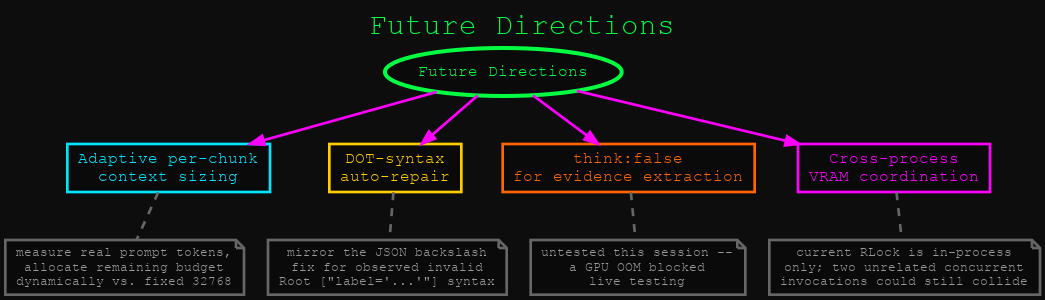
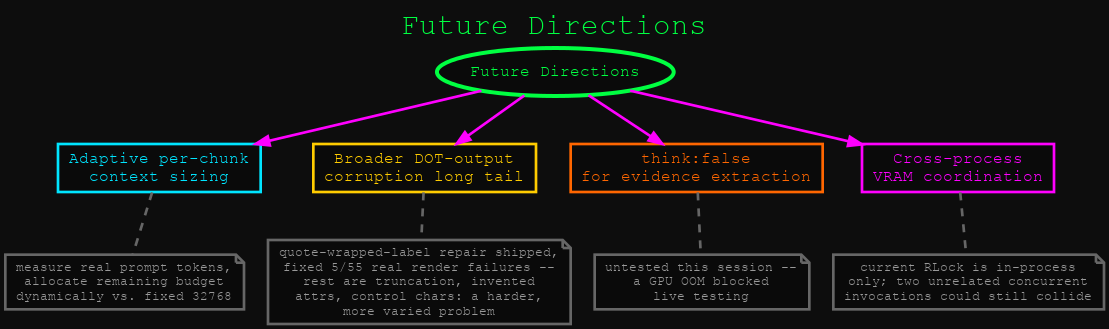
Add DOT-syntax repair for the quote-wrapped-label pattern
Fixes the invalid Graphviz attribute syntax the model occasionally
emits: `Node ["label='text'"];` (and a variant missing the outer
quote's closer) instead of valid `Node [label="text"];`. Confirmed
against the running 308-paper overnight batch: fixes 5 of 55 diagrams
that failed to render, with zero false-positive matches across 1,111
diagrams that already rendered successfully.

The remaining 50 failures are a more varied, harder problem (truncated
generation, invented attribute names, control characters) — documented
honestly in diagrams/05_future_directions rather than papered over.

58 tests passing (was 53). Version 0.6.1.

Changed region(s): [[0.0306, 0.03, 0.9493, 0.66], [0.0, 0.69, 1.0, 0.99], [0.8574, 0.69, 0.888, 0.72]]

diff --git a/tests/test_diagrams.py b/tests/test_diagrams.py
@@ -1,0 +1,66 @@
+import subprocess
+import unittest
+
+from paper_pipeline.diagrams import repair_dot_syntax
+
+
+def _dot_available() -> bool:
+    try:
+        subprocess.run(["dot", "-V"], capture_output=True, timeout=5)
+        return True
+    except FileNotFoundError:
+        return False
+
+
+class RepairDotSyntaxTests(unittest.TestCase):
+    def test_quote_wrapped_label_with_closing_quote_is_repaired(self):
+        # Observed live: the model wraps an entire label='...' assignment in
+        # an extra, incorrect outer pair of double quotes.
+        broken = (
+            'digraph G {\n'
+            '  Root ["label=\'Milnor K-group $K_2F/2$ (Rational Function '
+            'Field $F=E(t)$)\'"];\n'
+            '}\n'
+        )
+        repaired = repair_dot_syntax(broken)
+        self.assertIn(
+            'Root [label="Milnor K-group $K_2F/2$ (Rational Function '
+            'Field $F=E(t)$)"];',
+            repaired,
+        )
+
+    def test_quote_wrapped_label_missing_outer_closer_is_repaired(self):
+        # A second real variant: the outer quote's closer is dropped
+        # entirely, leaving only the inner single-quote before `];`.
+        broken = "digraph G {\n  KGroup [\"label='Milnor K-group $K_2F/2$'];\n}\n"
+        repaired = repair_dot_syntax(broken)
+        self.assertIn('KGroup [label="Milnor K-group $K_2F/2$"];', repaired)
+
+    def test_backslashes_in_label_are_escaped_for_new_quoting_context(self):
+        # A literal backslash must be doubled in the repaired form so
+        # Graphviz doesn't reinterpret e.g. \r as its own right-justified
+        # linebreak escape instead of a literal backslash + letter.
+        broken = "digraph G {\n  Ramification [\"label='Sequences $\\\\rho$'\"];\n}\n"
+        repaired = repair_dot_syntax(broken)
+        self.assertIn('label="Sequences $\\\\\\\\rho$"', repaired)
+
+    def test_already_valid_syntax_is_left_untouched(self):
+        valid = 'digraph G {\n  Root [label="Already valid", color="#00FF41"];\n}\n'
+        self.assertEqual(repair_dot_syntax(valid), valid)
+
+    @unittest.skipUnless(_dot_available(), "graphviz `dot` binary not installed")
+    def test_repaired_output_actually_renders(self):
+        broken = (
+            'digraph G {\n'
+            '  Root ["label=\'Renders now\'"];\n'
+            '}\n'
+        )
+        repaired = repair_dot_syntax(broken)
+        r = subprocess.run(
+            ["dot", "-Tsvg"], input=repaired, text=True, capture_output=True, timeout=15
+        )
+        self.assertEqual(r.returncode, 0, r.stderr)
+
+
+if __name__ == "__main__":
+    unittest.main()

diff --git a/paper_pipeline/diagrams.py b/paper_pipeline/diagrams.py
@@ -63,6 +63,41 @@ def ensure_neon_black(dot_src: str) -> str:
     return dot_src
 
 
+# ── Repair ───────────────────────────────────────────────────────────────────
+
+_QUOTE_WRAPPED_LABEL_RE = re.compile(r"\[\s*\"label='(.*?)'\"?\s*\]")
+
+
+def repair_dot_syntax(dot_src: str) -> str:
+    """Repair a known invalid attribute-list pattern from the LLM.
+
+    Observed live across a 308-paper batch: the model occasionally wraps an
+    entire `label='...'` assignment in an extra, incorrect outer pair of
+    double quotes — `Node ["label='text'"];` — instead of valid
+    `Node [label="text"];`, sometimes also dropping the outer quote's closer
+    (`Node ["label='text'];`). Both variants parse as a single bare quoted
+    string with no attribute name, which `dot` rejects outright.
+
+    This rewrites either variant to valid `[label="..."]` syntax, escaping
+    the label text for its new quoting context (backslashes doubled before
+    quotes are escaped) so the original characters render unchanged rather
+    than being reinterpreted as Graphviz's own \\n/\\l/\\r label escapes.
+
+    Confirmed against a real batch: fixes 5 of 55 diagrams that failed to
+    render for other, more varied reasons (truncated generation, invented
+    attribute names, control characters) — those are a materially different,
+    much less tractable problem and are not addressed here. Confirmed to be
+    a no-op on 1,111 diagrams that already rendered successfully (zero
+    false-positive matches on valid syntax).
+    """
+    def repl(match: re.Match) -> str:
+        inner = match.group(1)
+        inner = inner.replace("\\", "\\\\").replace('"', '\\"')
+        return f'[label="{inner}"]'
+
+    return _QUOTE_WRAPPED_LABEL_RE.sub(repl, dot_src)
+
+
 # ── Rendering ────────────────────────────────────────────────────────────────
 
 def render_dot(dot_src: str) -> Optional[str]:

diff --git a/paper_pipeline/pipeline.py b/paper_pipeline/pipeline.py
@@ -16,7 +16,7 @@ from threading import Event
 from typing import Callable, Optional, Protocol
 
 from . import config, store
-from .diagrams import ensure_neon_black, parse_diagrams, render_dot
+from .diagrams import ensure_neon_black, parse_diagrams, render_dot, repair_dot_syntax
 from .errors import LeaseLostError, ShutdownRequested
 from .prompts import DIAGRAM_PROMPT, PROMPTS
 from .reader import (
@@ -103,6 +103,7 @@ def _handle_diagrams(
     rows: list[tuple[str, str, Optional[str]]] = []
     for idx, (title, dot_src) in enumerate(diagrams, 1):
         dot_src = ensure_neon_black(dot_src)
+        dot_src = repair_dot_syntax(dot_src)
         svg = render_dot(dot_src)
         status = "✓" if svg is not None else "✗ (dot saved, SVG render failed)"
         print(f"       {idx}. {title:<45} {status}")

diff --git a/paper_pipeline/__init__.py b/paper_pipeline/__init__.py
@@ -1,3 +1,3 @@
 """paper_pipeline — evidence-grounded paper processing via local LLMs."""
 
-__version__ = "0.6.0"
+__version__ = "0.6.1"

diff --git a/README.md b/README.md
@@ -10,7 +10,7 @@
   <a href="https://ubuntu.com"><img src="https://img.shields.io/badge/OS-Ubuntu_Linux-E95420.svg?style=flat-square&logo=ubuntu" alt="Ubuntu"></a>
   <a href="https://nvidia.com"><img src="https://img.shields.io/badge/GPU-RTX_5080_|_3080-76B900.svg?style=flat-square&logo=nvidia" alt="NVIDIA GPUs"></a>
   <a href="https://ollama.com"><img src="https://img.shields.io/badge/ollama-resident-orange.svg?style=flat-square" alt="Ollama Resident"></a>
-  <img src="https://img.shields.io/badge/tests-53_passing-brightgreen.svg?style=flat-square" alt="53 Tests Passing">
+  <img src="https://img.shields.io/badge/tests-58_passing-brightgreen.svg?style=flat-square" alt="58 Tests Passing">
   <a href="https://opensource.org/licenses/MIT"><img src="https://img.shields.io/badge/license-MIT-green.svg?style=flat-square" alt="License"></a>
 </p>
 
@@ -167,7 +167,7 @@ pip install pytest
 python -m pytest tests/ -v
 ```
 
-53 tests passing. Four real production bugs were found and fixed with a
+58 tests passing. Five real production bugs were found and fixed with a
 regression test apiece:
 
 * Empty-generation retry/recovery — `tests/test_empty_generation_retry.py`
@@ -179,6 +179,11 @@ regression test apiece:
 * Unescaped LaTeX backslashes breaking the same JSON parsing —
   `test_unescaped_latex_backslash_in_support_does_not_break_parsing` in
   `tests/test_evidence.py`
+* Invalid Graphviz attribute syntax (`Node ["label='...'"];` instead of
+  `Node [label="...";]`) breaking diagram rendering —
+  `tests/test_diagrams.py`. Confirmed against a real 308-paper overnight
+  batch: fixes 5 of 55 diagrams that failed to render (the rest fail for
+  more varied, less tractable reasons — see `diagrams/05_future_directions`).
 
 ## Hardware This Was Developed & Tested On
 
@@ -189,11 +194,13 @@ combined VRAM budget.
 
 ## Future Directions
 
-Four concrete, unimplemented follow-ups — adaptive per-chunk context sizing,
-a DOT-syntax auto-repair pass mirroring the JSON fix already shipped,
-`think:false` experimentation for evidence extraction (untested — a GPU OOM
-blocked live testing), and cross-process VRAM coordination beyond the current
-in-process lock. Details and rationale in
+Four concrete follow-ups — adaptive per-chunk context sizing; the broader
+DOT-output corruption long tail (a narrow quote-wrapped-label repair already
+shipped, fixing 5 of 55 real render failures in one overnight batch — the rest
+are more varied and harder: truncated generation, invented attributes, control
+characters); `think:false` experimentation for evidence extraction (untested —
+a GPU OOM blocked live testing); and cross-process VRAM coordination beyond the
+current in-process lock. Details and rationale in
 [`diagrams/05_future_directions`](diagrams/05_future_directions.svg).
 
 ## License
